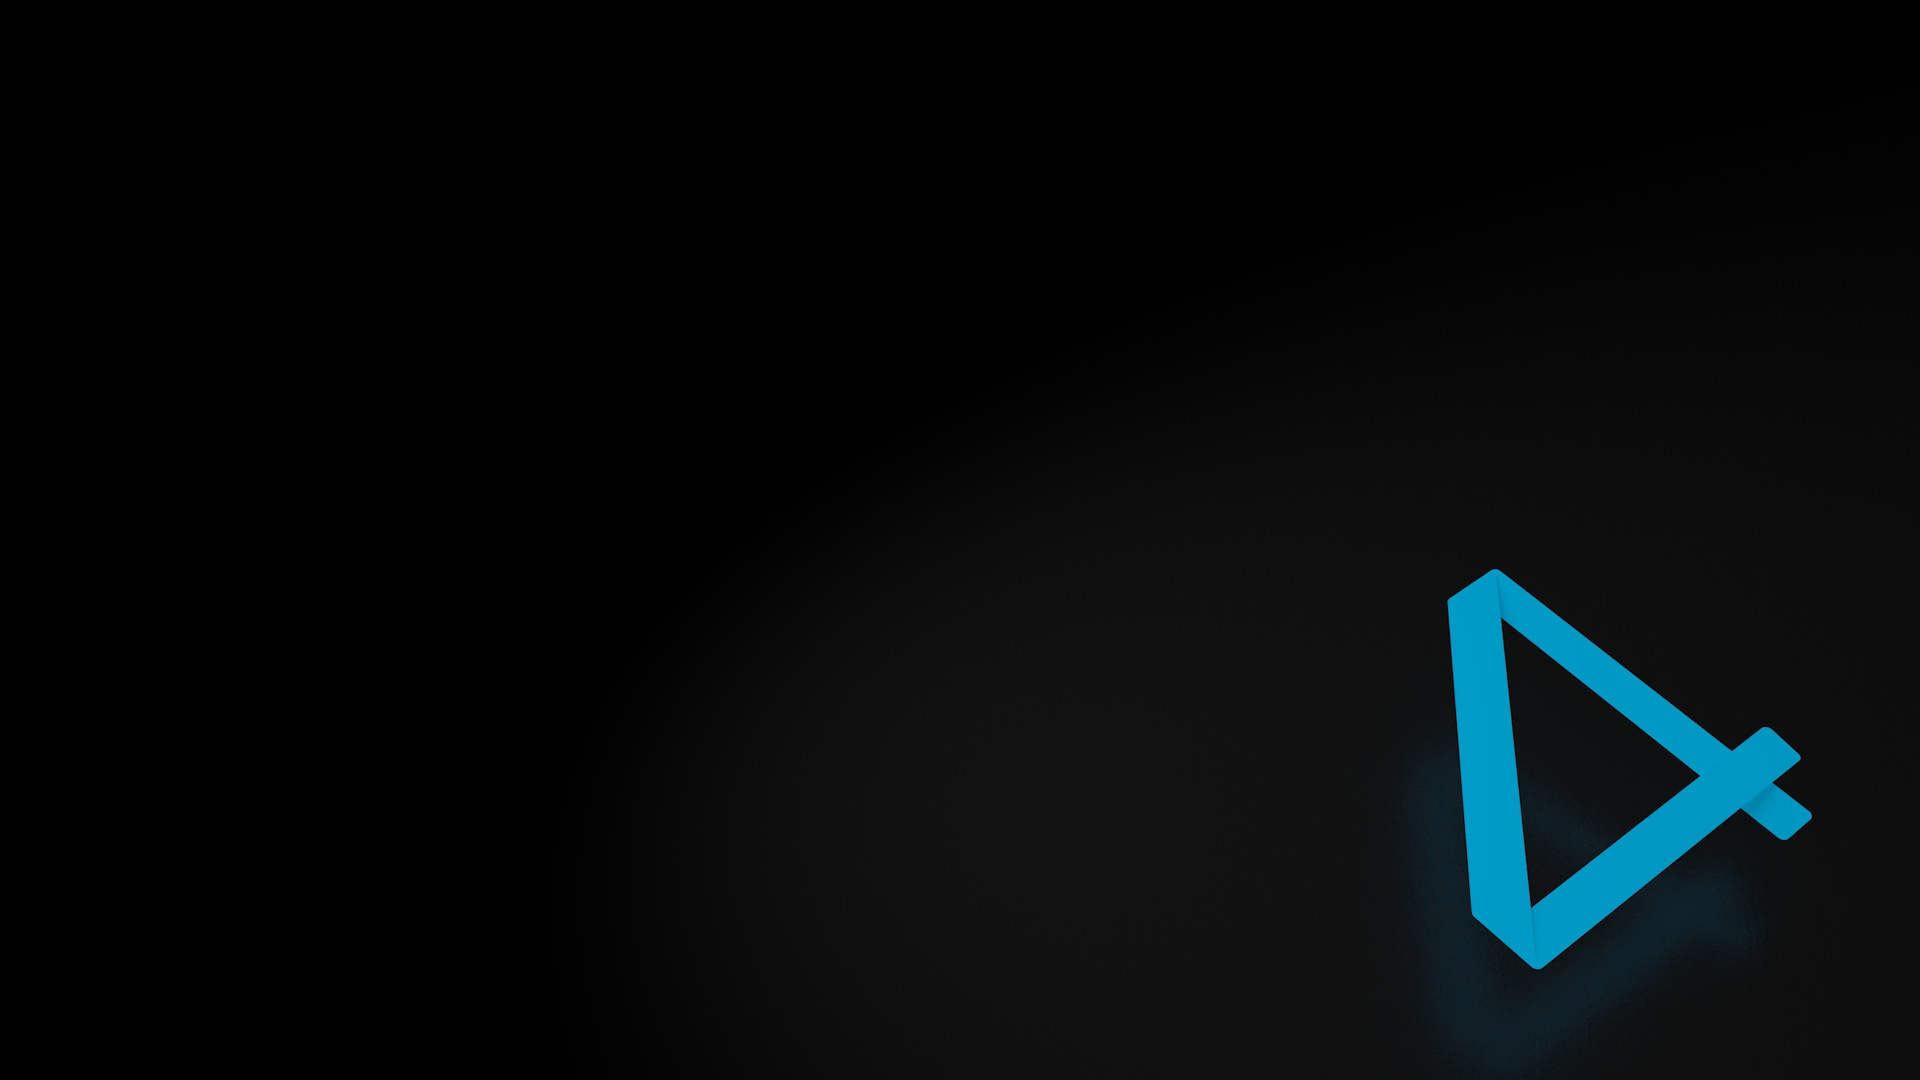
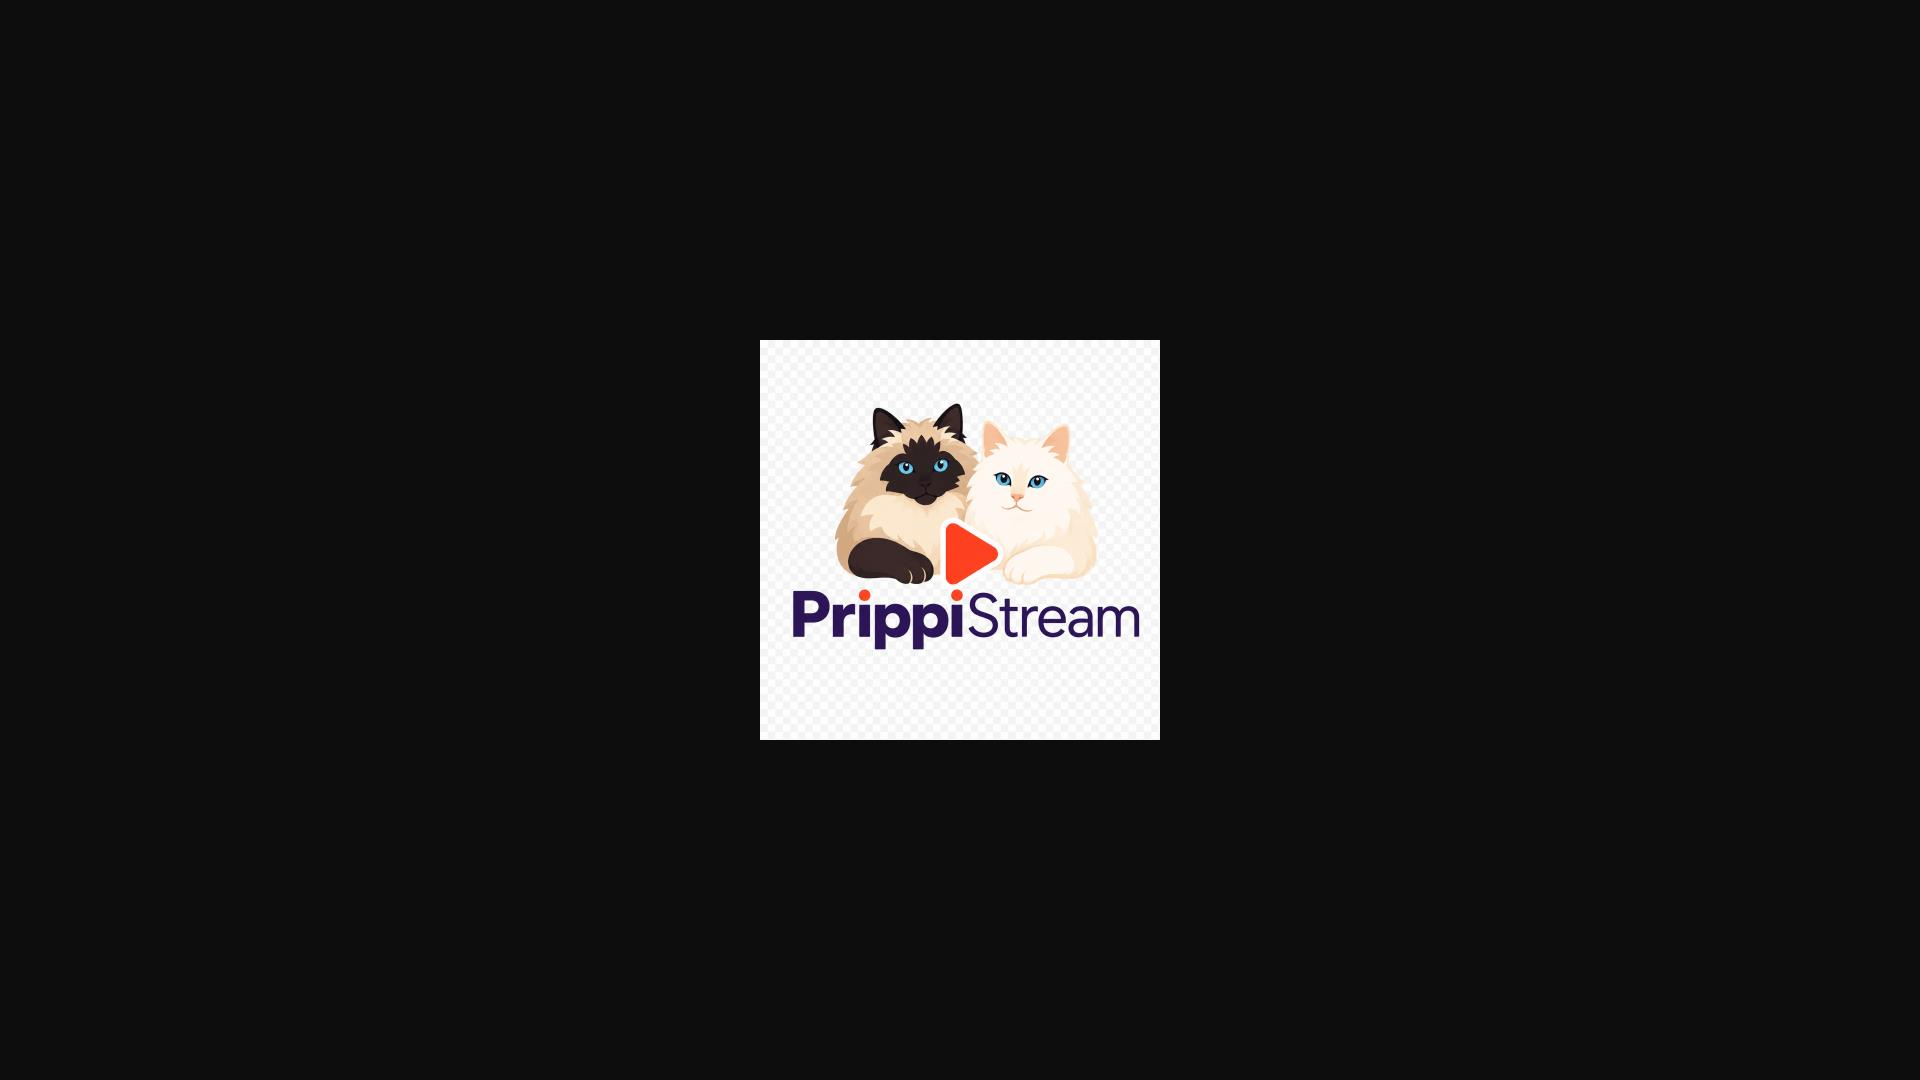
Release v1.0.64 - YouTube dependency + wizard suppression [skip ci]

Changed region(s): [[0.375, 0.3056, 0.625, 0.7028], [0.7188, 0.5194, 0.9375, 0.9778]]

diff --git a/docs/plugin.video.prippistream/index.html b/docs/plugin.video.prippistream/index.html
@@ -6,7 +6,7 @@
  <body>
 <h1>Index of /plugin.video.prippistream</h1>
 <pre>      <a href="?C=N;O=D">Name</a>                                        <a href="?C=M;O=A">Last modified</a>      <a href="?C=S;O=A">Size</a>  <a href="?C=D;O=A">Description</a><hr>      <a href="../">Parent Directory</a>
-      <a href="plugin.video.prippistream-1.0.63.zip">plugin.video.prippistream-1.0.63.zip</a>
+      <a href="plugin.video.prippistream-1.0.64.zip">plugin.video.prippistream-1.0.64.zip</a>
       <a href="icon.png">icon.png</a>
       <a href="fanart.jpg">fanart.jpg</a>
 <hr></pre>